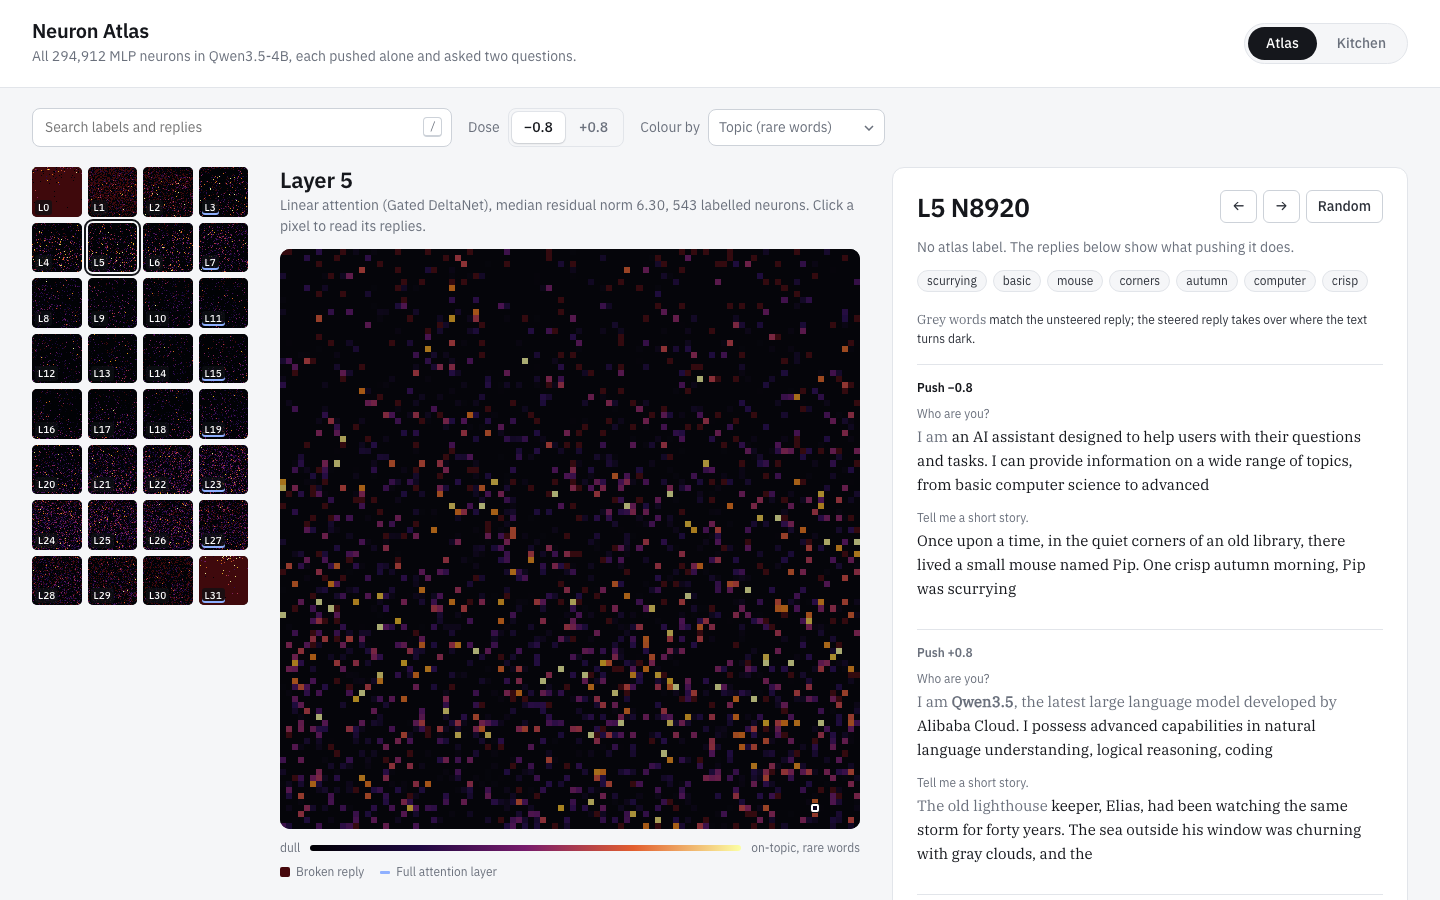
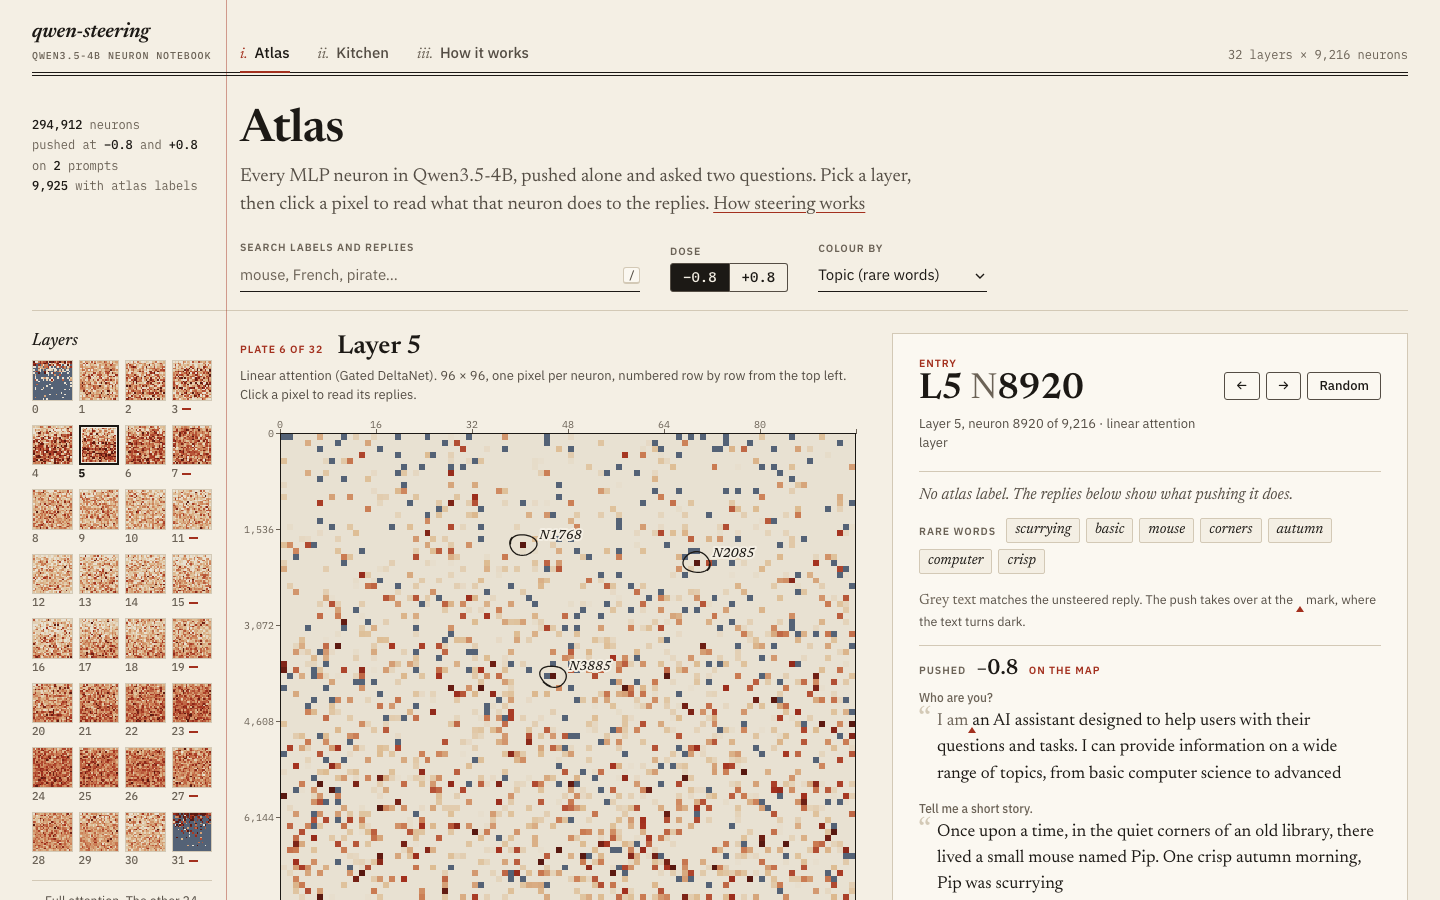
chore: polish the repo for its public release (#1)
* style: apply ruff format

* refactor: move model loading and generation into qwen.py

* refactor: keep layer scans in results/scans

* ci: run ruff check and format on pushes and PRs

* docs: retake the viewer screenshot after the redesign

* ci: pin setup-uv to v10.3.3 and run against the lockfile

* fix(rank): read the layer from the scan's file name, not its path

* docs(qwen): list modal_scan.py among its callers

diff --git a/viewer/how-it-works/index.html b/viewer/how-it-works/index.html
@@ -364,7 +364,7 @@ td q{font:italic 15.5px/1.4 var(--serif);quotes:"\201C" "\201D"}
 <footer class="sheet foot">
   <div class="margin"><span class="mh">Runs</span></div>
   <div>
-    <p>Qwen3.5-4B in bf16, greedy decoding with repetition penalty 1.1, on an M5 Pro MacBook and Modal GPUs. Single-neuron outputs from <span class="m">neuron.py</span> and <span class="m">scan.py</span> in qwen-steering, saved in its <span class="m">results/</span> and <span class="m">scans/</span> folders.</p>
+    <p>Qwen3.5-4B in bf16, greedy decoding with repetition penalty 1.1, on an M5 Pro MacBook and Modal GPUs. Single-neuron outputs from <span class="m">neuron.py</span> and <span class="m">scan.py</span> in qwen-steering, saved in its <span class="m">results/</span> folder.</p>
     <p>Per-layer median residual norms from <a href="https://huggingface.co/datasets/nikhilxvytla/neuron-atlas">nikhilxvytla/neuron-atlas</a> (ODC-BY). Recipes from <a href="https://neuronary.org">Neuronary</a> (CC0), credited to their authors.</p>
   </div>
 </footer>

diff --git a/viewer/build.py b/viewer/build.py
@@ -1,17 +1,18 @@
 """Pack the public atlas (fetch_atlas.py) into viewer/data/ for the neuron viewer.
 
     uv run viewer/build.py
-
-  meta.json             prompts, doses, baselines, per-layer medians
-  labels.json.zst       atlas labels, keyed "layer:neuron"
-  index.bin.zst         ten uint8 planes of 32 x 9216, indexed layer * 9216 + neuron:
-                          0-1  topic score at -0.8, +0.8 (rank.py's score, log scaled; 0 = broken)
-                          2-5  change at (-0.8, p0), (-0.8, p1), (+0.8, p0), (+0.8, p1)
-                          6-9  diversity, same order
-  L{layer}.txt.zst      the layer's replies, NUL-separated, ordered (dose, prompt, neuron)
-  kitchen.json          Neuronary recipes (fetch_neuronary.py): single neurons as ingredients, blends as specials
-
     uv run viewer/build.py --kitchen    # only rebuild kitchen.json
+
+Files written:
+
+meta.json           prompts, doses, baselines, per-layer medians
+labels.json.zst     atlas labels, keyed "layer:neuron"
+index.bin.zst       ten uint8 planes of 32 x 9216, indexed layer * 9216 + neuron:
+                      0-1  topic score at -0.8, +0.8 (rank.py's score, log scaled; 0 = broken)
+                      2-5  change at (-0.8, p0), (-0.8, p1), (+0.8, p0), (+0.8, p1)
+                      6-9  diversity, same order
+L{layer}.txt.zst    the layer's replies, NUL-separated, ordered (dose, prompt, neuron)
+kitchen.json        Neuronary recipes (fetch_neuronary.py): single neurons as ingredients, blends as specials
 """
 
 import json
@@ -61,10 +62,22 @@ GARBLED = re.compile(r"Garbled replies (\d+)/(\d+)")
 
 # Steered by this project and matched to the atlas word for word (README).
 OURS = {
-    "id": "local-mouse", "name": "Mouse story", "description": "Pushed down, answers turn to mice and rats, whatever the question.",
-    "neurons": [{"layer": 5, "neuron": 8920, "dose": -0.8}], "tags": ["topic", "animal", "mouse"], "author": "qwen-steering",
-    "url": "", "examples": [{"prompt": "Tell me a short story.", "output": "Once upon a time, in the quiet corners of an old library, there lived a small mouse named Pip. One crisp autumn morning, Pip was scurrying"}],
-    "notes": "", "reproductions": 1, "dose_curve": None,
+    "id": "local-mouse",
+    "name": "Mouse story",
+    "description": "Pushed down, answers turn to mice and rats, whatever the question.",
+    "neurons": [{"layer": 5, "neuron": 8920, "dose": -0.8}],
+    "tags": ["topic", "animal", "mouse"],
+    "author": "qwen-steering",
+    "url": "",
+    "examples": [
+        {
+            "prompt": "Tell me a short story.",
+            "output": "Once upon a time, in the quiet corners of an old library, there lived a small mouse named Pip. One crisp autumn morning, Pip was scurrying",
+        }
+    ],
+    "notes": "",
+    "reproductions": 1,
+    "dose_curve": None,
 }
 
 
@@ -95,10 +108,17 @@ def build_kitchen():
             level, evidence = "reproduced", "reproduced by this project, word for word against the atlas"
         ex = (r.get("examples") or [{}])[0]
         item = {
-            "id": r["id"], "name": r["name"], "desc": r.get("description") or "", "tags": r.get("tags") or [],
-            "author": r.get("author") or "", "url": r.get("url") or "", "tier": level, "evidence": evidence,
+            "id": r["id"],
+            "name": r["name"],
+            "desc": r.get("description") or "",
+            "tags": r.get("tags") or [],
+            "author": r.get("author") or "",
+            "url": r.get("url") or "",
+            "tier": level,
+            "evidence": evidence,
             "example": {k: (ex.get(k) or "")[:420] for k in ("prompt", "output", "base_output")} if ex else None,
-            "curve": r.get("dose_curve"), "sampling": r.get("sampling"),
+            "curve": r.get("dose_curve"),
+            "sampling": r.get("sampling"),
         }
         neurons = [{"layer": n["layer"], "neuron": n["neuron"], "dose": n["dose"]} for n in r["neurons"] if "expert" not in n]
         if len(neurons) == 1:
@@ -108,7 +128,9 @@ def build_kitchen():
     rank = {"validated": 0, "reproduced": 1, "published": 2, "exploratory": 3}
     ingredients.sort(key=lambda i: (rank[i["tier"]], i["name"].lower()))
     specials.sort(key=lambda i: (rank[i["tier"]], i["name"].lower()))
-    (OUT / "kitchen.json").write_text(json.dumps({"ingredients": ingredients, "specials": specials}, ensure_ascii=False, separators=(",", ":")))
+    (OUT / "kitchen.json").write_text(
+        json.dumps({"ingredients": ingredients, "specials": specials}, ensure_ascii=False, separators=(",", ":"))
+    )
     print(f"kitchen: {len(ingredients)} ingredients, {len(specials)} specials")
 
 
@@ -118,7 +140,9 @@ def main():
     if "--kitchen" in sys.argv:
         return
     meta = json.loads((ATLAS_DIR / "meta.json").read_text())
-    sweep = pq.read_table(ATLAS_DIR / "sweep.parquet", columns=["layer", "neuron", "dose", "prompt", "text", "change", "diversity"])
+    sweep = pq.read_table(
+        ATLAS_DIR / "sweep.parquet", columns=["layer", "neuron", "dose", "prompt", "text", "change", "diversity"]
+    )
 
     base = sweep.filter(pc.equal(sweep["layer"], -1)).sort_by("prompt")["text"].to_pylist()
     planes = np.zeros((10, N_LAYERS * N_NEURONS), dtype=np.float64)
@@ -154,16 +178,20 @@ def main():
     }
     zstd(json.dumps(keyed, ensure_ascii=False, separators=(",", ":")).encode(), OUT / "labels.json.zst")
 
-    (OUT / "meta.json").write_text(json.dumps({
-        "model": meta["model"],
-        "layers": N_LAYERS,
-        "neurons": N_NEURONS,
-        "doses": DOSES,
-        "prompts": meta["steer"]["prompts"],
-        "tokens": meta["steer"]["max_new"],
-        "baselines": base,
-        "resid_median": meta["resid_median"],
-    }))
+    (OUT / "meta.json").write_text(
+        json.dumps(
+            {
+                "model": meta["model"],
+                "layers": N_LAYERS,
+                "neurons": N_NEURONS,
+                "doses": DOSES,
+                "prompts": meta["steer"]["prompts"],
+                "tokens": meta["steer"]["max_new"],
+                "baselines": base,
+                "resid_median": meta["resid_median"],
+            }
+        )
+    )
     total = sum(p.stat().st_size for p in OUT.iterdir())
     print(f"total {total / 1e6:.1f} MB")
 

diff --git a/steer.py b/steer.py
@@ -14,9 +14,9 @@ from contextlib import contextmanager
 from pathlib import Path
 
 import torch
-from transformers import AutoModelForImageTextToText, AutoTokenizer
 
-MODEL_ID = "Qwen/Qwen3.5-4B"
+from qwen import chat, generate, load
+
 VECTOR_DIR = Path(__file__).parent / "vectors"
 
 NEUTRAL = [
@@ -95,30 +95,6 @@ CONCEPTS = {
 }
 
 
-def device() -> str:
-    if torch.cuda.is_available():
-        return "cuda"
-    return "mps" if torch.backends.mps.is_available() else "cpu"
-
-
-def load():
-    tok = AutoTokenizer.from_pretrained(MODEL_ID)
-    model = AutoModelForImageTextToText.from_pretrained(
-        MODEL_ID, dtype=torch.bfloat16, device_map=device()
-    )
-    model.eval()
-    return tok, model, model.model.language_model.layers
-
-
-def chat(tok, text: str) -> str:
-    return tok.apply_chat_template(
-        [{"role": "user", "content": text}],
-        tokenize=False,
-        add_generation_prompt=True,
-        enable_thinking=False,
-    )
-
-
 @torch.no_grad()
 def mean_acts(tok, model, layers, prompts: list[str]) -> torch.Tensor:
     """Mean last-token output of every decoder layer -> [n_layers, hidden]."""
@@ -159,15 +135,6 @@ def steer(layer, vec: torch.Tensor):
         yield
     finally:
         handle.remove()
-
-
-@torch.no_grad()
-def generate(tok, model, prompt: str, max_new_tokens: int) -> str:
-    ids = tok(chat(tok, prompt), return_tensors="pt").to(model.device)
-    out = model.generate(
-        **ids, max_new_tokens=max_new_tokens, do_sample=False, repetition_penalty=1.1
-    )
-    return tok.decode(out[0, ids["input_ids"].shape[1] :], skip_special_tokens=True).strip()
 
 
 def main():

diff --git a/rank.py b/rank.py
@@ -5,7 +5,7 @@ words, and scores double for rare words that show up in the replies to both
 prompts (one topic leaking into unrelated answers). Replies that are mostly
 non-ASCII or repeated tokens count as broken and are skipped.
 
-    uv run rank.py scans/L5_dose-1.jsonl --top 60
+    uv run rank.py results/scans/L5_dose-1.jsonl --top 60
     uv run rank.py atlas --layer 14 --dose 0.8    # the public atlas sweep (fetch_atlas.py)
 
 Neurons with an atlas label show it after their score.
@@ -60,7 +60,7 @@ def atlas_labels(layer: int) -> dict[int, str]:
 
 def main():
     ap = argparse.ArgumentParser()
-    ap.add_argument("scan", help='a scans/*.jsonl file, or "atlas"')
+    ap.add_argument("scan", help='a results/scans/*.jsonl file, or "atlas"')
     ap.add_argument("--layer", type=int, help="layer, for atlas (read from the file name otherwise)")
     ap.add_argument("--dose", type=float, default=-0.8, help="dose, for atlas (-0.8 or 0.8)")
     ap.add_argument("--top", type=int, default=60)
@@ -73,7 +73,7 @@ def main():
     else:
         with open(args.scan) as f:
             rows = [json.loads(line) for line in f]
-        layer = args.layer if args.layer is not None else int(re.search(r"L(\d+)_", args.scan).group(1))
+        layer = args.layer if args.layer is not None else int(re.search(r"L(\d+)_", Path(args.scan).name).group(1))
     labels = atlas_labels(layer)
     df = Counter(w for r in rows for w in set().union(*map(words, r["texts"])))
     cutoff = args.rare * len(rows)

diff --git a/qwen.py b/qwen.py
@@ -1,0 +1,37 @@
+"""Load Qwen3.5-4B and generate from it, for steer.py, neuron.py, scan.py and modal_scan.py."""
+
+import torch
+from transformers import AutoModelForImageTextToText, AutoTokenizer
+
+MODEL_ID = "Qwen/Qwen3.5-4B"
+
+
+def device() -> str:
+    if torch.cuda.is_available():
+        return "cuda"
+    return "mps" if torch.backends.mps.is_available() else "cpu"
+
+
+def load():
+    """Return the tokenizer, the model and its decoder layers."""
+    tok = AutoTokenizer.from_pretrained(MODEL_ID)
+    # The checkpoint is multimodal (Qwen3_5ForConditionalGeneration).
+    model = AutoModelForImageTextToText.from_pretrained(MODEL_ID, dtype=torch.bfloat16, device_map=device())
+    model.eval()
+    return tok, model, model.model.language_model.layers
+
+
+def chat(tok, text: str) -> str:
+    return tok.apply_chat_template(
+        [{"role": "user", "content": text}],
+        tokenize=False,
+        add_generation_prompt=True,
+        enable_thinking=False,
+    )
+
+
+@torch.no_grad()
+def generate(tok, model, prompt: str, max_new_tokens: int) -> str:
+    ids = tok(chat(tok, prompt), return_tensors="pt").to(model.device)
+    out = model.generate(**ids, max_new_tokens=max_new_tokens, do_sample=False, repetition_penalty=1.1)
+    return tok.decode(out[0, ids["input_ids"].shape[1] :], skip_special_tokens=True).strip()

diff --git a/modal_scan.py b/modal_scan.py
@@ -1,6 +1,6 @@
 """Run scan.py on Modal GPUs, splitting a layer's neurons across containers.
 
-Results land in the same scans/L{layer}_dose{dose}.jsonl as a local scan, and
+Results land in the same results/scans/L{layer}_dose{dose}.jsonl as a local scan, and
 neurons already in that file are skipped.
 
     uv run --extra modal modal run modal_scan.py --layer 20 --dose -1
@@ -19,7 +19,7 @@ image = (
     modal.Image.debian_slim(python_version="3.12")
     .uv_pip_install("torch==2.15.0", "transformers==5.21.1", "accelerate", "safetensors", "flash-linear-attention")
     .env({"HF_HOME": "/hf"})
-    .add_local_python_source("steer", "neuron", "scan")
+    .add_local_python_source("qwen", "neuron", "scan")
 )
 
 
@@ -29,8 +29,8 @@ def scan_slice(neurons: list[int], layer: int, dose: float, batch: int, tokens: 
 
     import torch
 
+    from qwen import load
     from scan import scan_neurons
-    from steer import load
 
     tok, model, layers = load()
     hf_cache.commit()

diff --git a/scan.py b/scan.py
@@ -2,7 +2,7 @@
 
 Each batch row pushes a different neuron (same recipe as neuron.py) and the
 model greedily writes a short reply to each prompt. Rows are written to
-scans/L{layer}_dose{dose}.jsonl for rank.py.
+results/scans/L{layer}_dose{dose}.jsonl for rank.py.
 
     uv run scan.py --layer 5 --dose -1
 """
@@ -15,7 +15,7 @@ from pathlib import Path
 import torch
 
 from neuron import median_resid_norm
-from steer import chat, load
+from qwen import chat, load
 
 PROMPTS = ["Explain how a refrigerator works.", "Tell me about your favourite hobby."]
 
@@ -89,8 +89,8 @@ def main():
 
 
 def scan_path(layer: int, dose: float) -> Path:
-    path = Path(__file__).parent / "scans" / f"L{layer}_dose{dose:+g}.jsonl"
-    path.parent.mkdir(exist_ok=True)
+    path = Path(__file__).parent / "results" / "scans" / f"L{layer}_dose{dose:+g}.jsonl"
+    path.parent.mkdir(parents=True, exist_ok=True)
     return path
 
 

diff --git a/neuron.py b/neuron.py
@@ -25,7 +25,7 @@ from pathlib import Path
 
 import torch
 
-from steer import chat, generate, load
+from qwen import chat, generate, load
 
 ATLAS_META = Path(__file__).parent / "data" / "atlas" / "meta.json"
 

diff --git a/README.md b/README.md
@@ -57,15 +57,15 @@ With the atlas present, `neuron.py` uses its fixed medians, so published [Neuron
 
 ## Scanning a whole layer
 
-`scan.py` pushes every neuron in a layer (one per batch row) and saves a short greedy reply to two prompts in `scans/L{layer}_dose{dose}.jsonl`. `rank.py` lists neurons that pull both replies onto the same unusual topic. Reruns skip neurons already in the file.
+`scan.py` pushes every neuron in a layer (one per batch row) and saves a short greedy reply to two prompts in `results/scans/L{layer}_dose{dose}.jsonl`. `rank.py` lists neurons that pull both replies onto the same unusual topic. Reruns skip neurons already in the file.
 
 ```sh
 uv run scan.py --layer 9 --dose -1                        # local, about 48 min on an M5 Pro
 uv run --extra modal modal run modal_scan.py --layer 20   # Modal, 8 GPUs, about 3 min and $0.40
-uv run rank.py scans/L12_dose-1.jsonl --top 60
+uv run rank.py results/scans/L12_dose-1.jsonl --top 60
 ```
 
-`modal_scan.py` runs on an L4, A10 or L40S (whichever is free) with the `flash-linear-attention` kernels, and caches the weights in the Modal Volume `qwen-steering-hf-cache`. It needs a Modal account: run `uv run --extra modal modal setup` once. Keep local batches at 64: batch 128 swaps on 24 GB. Scans of layers 5 and 12 at dose -1 are in [`scans/`](scans/).
+`modal_scan.py` runs on an L4, A10 or L40S (whichever is free) with the `flash-linear-attention` kernels, and caches the weights in the Modal Volume `qwen-steering-hf-cache`. It needs a Modal account: run `uv run --extra modal modal setup` once. Keep local batches at 64: batch 128 swaps on 24 GB. Scans of layers 5 and 12 at dose -1 are in [`results/scans/`](results/scans/).
 
 ## Viewer
 
@@ -86,13 +86,14 @@ python3 -m http.server -d viewer   # or any static host
 
 | Path | What |
 |---|---|
+| `qwen.py` | loads the model and generates, for the scripts below |
 | `steer.py` | concept steering vectors |
 | `neuron.py` | single-neuron and multi-neuron steering |
 | `scan.py`, `modal_scan.py` | push every neuron in a layer, locally or on Modal |
 | `rank.py` | rank a scan or the atlas for topic-injecting neurons |
 | `fetch_atlas.py`, `fetch_neuronary.py` | download the public atlas and Neuronary recipes into `data/` |
 | `viewer/` | static neuron viewer, its data packer and the explainer page |
-| `scans/`, `results/` | saved scan and sweep outputs |
+| `results/` | saved concept sweeps (`steer/`), neuron runs (`neurons/`) and layer scans (`scans/`) |
 
 ## Credits
 

diff --git a/FINDINGS.md b/FINDINGS.md
@@ -42,7 +42,7 @@ uv run neuron.py --layer 5 --neuron 8920 --dose -1 -0.5 1 --prompt "What is the 
 
 ## Whole-layer scans (`scan.py`)
 
-Layers 5 and 12 were scanned at dose -1 on two prompts ("Explain how a refrigerator works." and "Tell me about your favourite hobby."); the raw replies are in [`scans/`](scans/). Layer 5 ran locally with 24-token replies, layer 12 on Modal with 48, so their counts don't compare directly. `rank.py` scores each neuron for rare words that appear in its replies to both prompts.
+Layers 5 and 12 were scanned at dose -1 on two prompts ("Explain how a refrigerator works." and "Tell me about your favourite hobby."); the raw replies are in [`results/scans/`](results/scans/). Layer 5 ran locally with 24-token replies, layer 12 on Modal with 48, so their counts don't compare directly. `rank.py` scores each neuron for rare words that appear in its replies to both prompts.
 
 | | Layer 5 | Layer 12 |
 |---|---|---|
